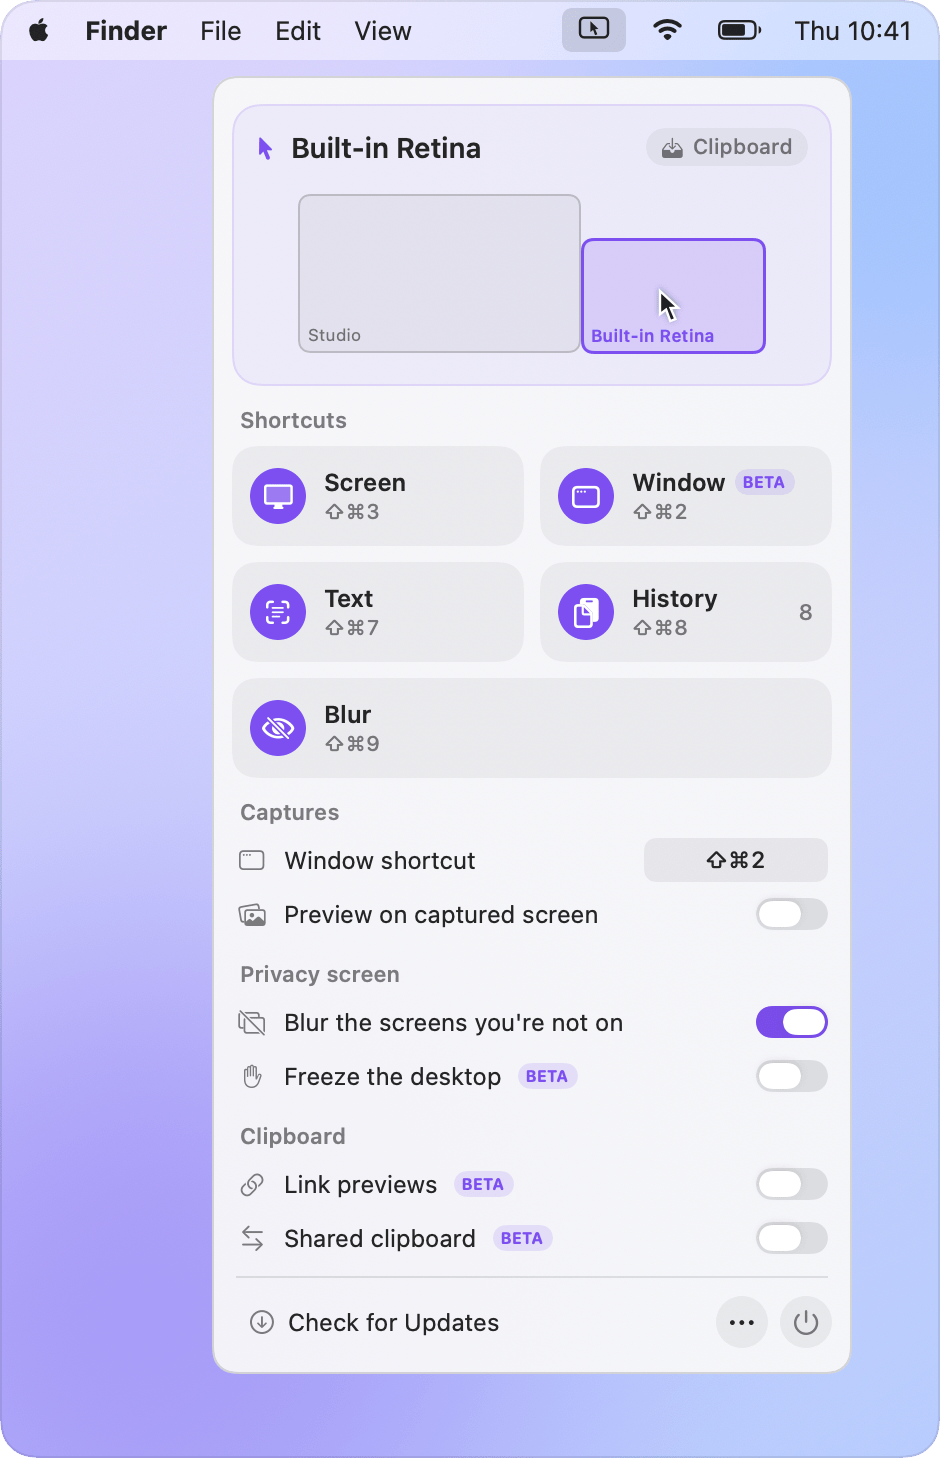
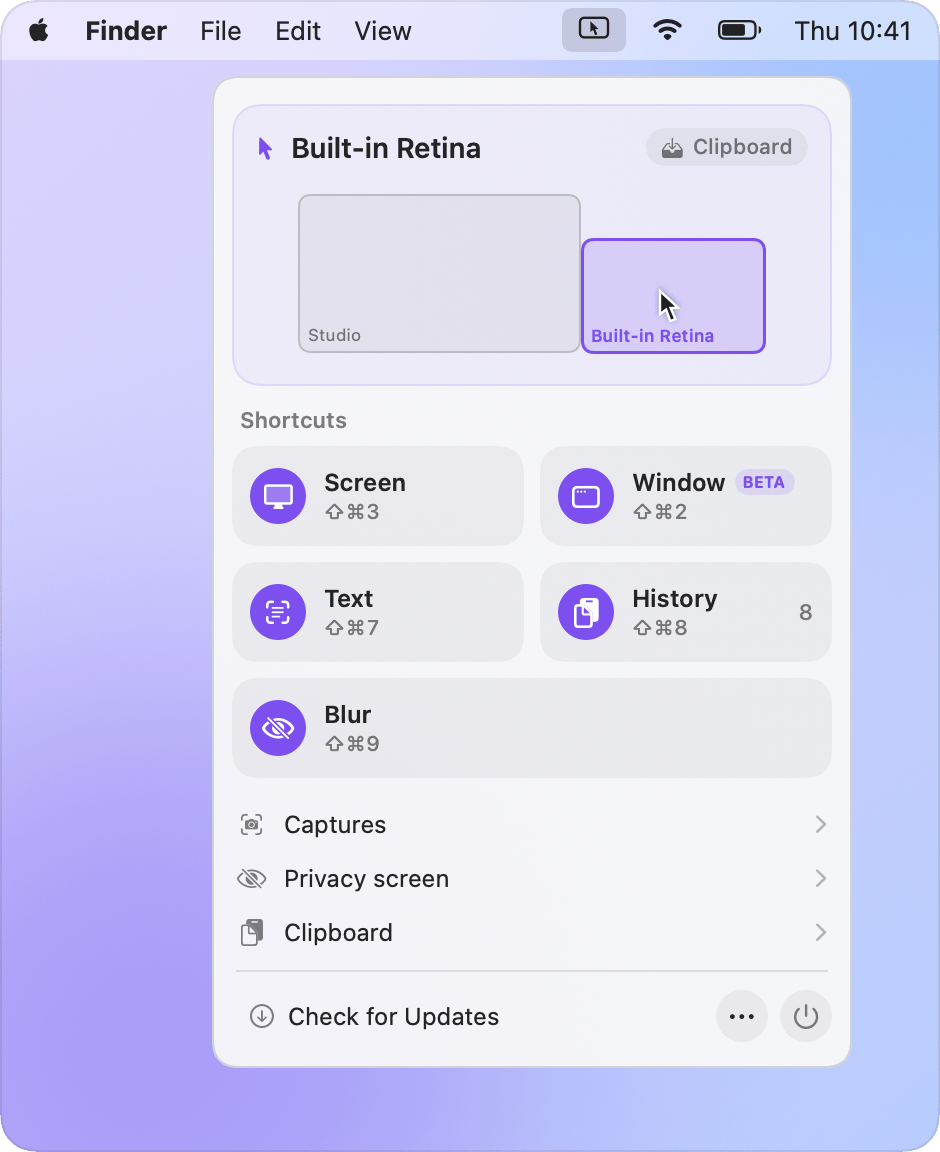
feat: one room of settings at a time, instead of one growing list
The panel grew with everything that was switched on: eleven rows and,
while two devices were being introduced, eight more that resized it
under the six-digit code the user was reading.

The settings now live in three rooms — Captures, Privacy screen,
Clipboard — reached from the panel and left by the way back every Mac
puts in the same corner. The panel that opens is the same height
whatever is on, and a setting finally has room for the sentence that
explains it, which until now had to fit in a tooltip nobody hovers.

The rooms are the groups rather than the tiles: a tile keeps its one
job, switching its feature, and no room opens empty.

diff --git a/Sources/ScreenHere/PanelOptions.swift b/Sources/ScreenHere/PanelOptions.swift
@@ -1,7 +1,26 @@
 import SwiftUI
 
-/// The settings of the features that are on, so the panel only grows with
-/// what is in use.
+/// A room of settings, named after what it changes. The panel shows one room
+/// at a time, so its height no longer grows with everything that is switched
+/// on — and a setting gets space for the sentence that explains it.
+enum PanelPage: String, CaseIterable, Identifiable {
+    case captures = "Captures"
+    case privacy = "Privacy screen"
+    case clipboard = "Clipboard"
+
+    var id: String { rawValue }
+
+    var icon: String {
+        switch self {
+        case .captures: "camera.viewfinder"
+        case .privacy: "eye.slash"
+        case .clipboard: "doc.on.clipboard"
+        }
+    }
+}
+
+/// The settings of the features that are on: the rooms to go to, or the one
+/// that is open.
 struct PanelOptions: View {
     @ObservedObject var model: PanelModel
     @ObservedObject var window: WindowShortcuts
@@ -10,55 +29,92 @@ struct PanelOptions: View {
     @ObservedObject var sync: SyncController
     @ObservedObject var blur: ScreenBlur = .shared
 
+    /// The room on show, or none for the list of rooms.
+    var page: PanelPage?
+    var open: (PanelPage) -> Void = { _ in }
+
     var body: some View {
         VStack(spacing: 1) {
-            if (clipboard.isEnabled || sync.isEnabled) && clipboard.needsPasteAccess {
-                PanelRow(icon: "exclamationmark.triangle", title: "Allow clipboard access…",
-                         action: clipboard.openPasteAccessSettings)
-                    .foregroundStyle(Theme.warning)
+            switch page {
+            case .none: doors
+            case .captures: captures
+            case .privacy: privacy
+            case .clipboard: clipboardSettings
             }
-
-            group("Captures", first: true)
-            if window.isEnabled {
-                PanelRow(icon: "macwindow", title: "Window shortcut") {
-                    ShortcutRecorder(window: window)
-                }
-            }
-            PanelRow(icon: "photo.on.rectangle.angled", title: "Preview on captured screen") {
-                toggle(isOn: model.showsOwnPreview, set: { model.setOwnPreview($0) })
-                    .help("Show the capture preview on the screen it came from, "
-                          + "instead of wherever macOS puts it")
-            }
-
-            if blur.isEnabled {
-                group("Privacy screen")
-                PanelRow(icon: "rectangle.on.rectangle.slash", title: "Blur the screens you're not on") {
-                    toggle(isOn: blur.blursOthers, set: blur.setBlursOthers)
-                        .help("On top of ⇧⌘9, frost every display the pointer is not on by itself. "
-                              + "A screen clears the moment your pointer arrives, and frosts again "
-                              + "a second after it leaves.")
-                }
-                PanelRow(icon: "hand.raised", title: "Freeze the desktop", beta: true) {
-                    toggle(isOn: blur.holdsDisplay, set: blur.setHoldsDisplay)
-                        .help("While ⇧⌘9 is down, hold every frosted display so macOS cannot "
-                              + "slide to another desktop — the frost can no longer blink off "
-                              + "mid-swipe. Taking a display over flashes it for an instant as "
-                              + "the curtain comes down.")
-                }
-            }
-
-            group("Clipboard")
-            if clipboard.isEnabled {
-                PanelRow(icon: "link", title: "Link previews", beta: true) {
-                    toggle(isOn: links.isEnabled, set: links.setEnabled)
-                        .help("Show the title and icon of copied links in the list. ScreenHere visits a link "
-                              + "when the list shows it, without cookies, and never one that looks private "
-                              + "or single-use. The site sees the visit, as it would if you opened the link.")
-                }
-            }
-            sharedClipboard
         }
         .onAppear { clipboard.refreshAccess() }
+    }
+
+    /// The way in to each room, and anything that cannot wait behind a door.
+    @ViewBuilder private var doors: some View {
+        if (clipboard.isEnabled || sync.isEnabled) && clipboard.needsPasteAccess {
+            PanelRow(icon: "exclamationmark.triangle", title: "Allow clipboard access…",
+                     action: clipboard.openPasteAccessSettings)
+                .foregroundStyle(Theme.warning)
+        }
+        ForEach(PanelPage.allCases) { page in
+            // A frosted screen is the only one whose room is empty when the
+            // feature is off.
+            if page != .privacy || blur.isEnabled {
+                PanelRow(icon: page.icon, title: page.rawValue, action: { open(page) }) {
+                    Image(systemName: "chevron.right")
+                        .font(.system(size: 10, weight: .semibold))
+                        .foregroundStyle(.tertiary)
+                }
+            }
+        }
+    }
+
+    @ViewBuilder private var captures: some View {
+        if window.isEnabled {
+            PanelRow(icon: "macwindow", title: "Window shortcut") {
+                ShortcutRecorder(window: window)
+            }
+        }
+        PanelRow(icon: "photo.on.rectangle.angled", title: "Preview on captured screen") {
+            toggle(isOn: model.showsOwnPreview, set: { model.setOwnPreview($0) })
+        }
+        note("The preview appears on the screen the capture came from, instead of "
+             + "wherever macOS puts it. Click it to find the file, drag it into another "
+             + "app, or flick it to the right to dismiss it.")
+    }
+
+    @ViewBuilder private var privacy: some View {
+        PanelRow(icon: "rectangle.on.rectangle.slash", title: "Blur the screens you're not on") {
+            toggle(isOn: blur.blursOthers, set: blur.setBlursOthers)
+        }
+        note("On top of ⇧⌘9, frost every display the pointer is not on by itself. A screen "
+             + "clears the moment your pointer arrives, and frosts again a second after it leaves.")
+        PanelRow(icon: "hand.raised", title: "Freeze the desktop", beta: true) {
+            toggle(isOn: blur.holdsDisplay, set: blur.setHoldsDisplay)
+        }
+        note("While ⇧⌘9 is down, hold every frosted display so macOS cannot slide to another "
+             + "desktop — the frost can no longer blink off mid-swipe. Taking a display over "
+             + "flashes it for an instant as the curtain comes down.")
+    }
+
+    @ViewBuilder private var clipboardSettings: some View {
+        if clipboard.isEnabled {
+            PanelRow(icon: "link", title: "Link previews", beta: true) {
+                toggle(isOn: links.isEnabled, set: links.setEnabled)
+            }
+            note("Show the title and icon of copied links in the list. ScreenHere visits a link "
+                 + "when the list shows it, without cookies, and never one that looks private or "
+                 + "single-use. The site sees the visit, as it would if you opened the link.")
+        }
+        sharedClipboard
+    }
+
+    /// What a setting does, in the room's own space — which is the point of
+    /// having rooms: this used to have to fit in a tooltip.
+    private func note(_ text: String) -> some View {
+        Text(text)
+            .font(.system(size: 10.5))
+            .foregroundStyle(.secondary)
+            .fixedSize(horizontal: false, vertical: true)
+            .frame(maxWidth: .infinity, alignment: .leading)
+            .padding(.horizontal, 8)
+            .padding(.bottom, 6)
     }
 
     /// The clipboard shared with one other device, and the few steps that
@@ -143,18 +199,6 @@ struct PanelOptions: View {
                 PanelRow(icon: "link", title: "Connect a device…", action: sync.beginPairing)
             }
         }
-    }
-
-    /// Names what the settings under it change. The first one needs no gap
-    /// above it: the tiles already left one.
-    private func group(_ title: String, first: Bool = false) -> some View {
-        Text(title)
-            .font(.system(size: 11, weight: .semibold))
-            .foregroundStyle(.secondary)
-            .frame(maxWidth: .infinity, alignment: .leading)
-            .padding(.leading, 8)
-            .padding(.top, first ? 0 : 9)
-            .padding(.bottom, 3)
     }
 
     private func toggle(isOn: Bool, set: @escaping (Bool) -> Void) -> some View {

diff --git a/Sources/ScreenHere/PanelView.swift b/Sources/ScreenHere/PanelView.swift
@@ -17,7 +17,36 @@ struct PanelView: View {
     var onOpenGitHub: () -> Void
     var onQuit: () -> Void
 
+    /// The room on show, or none for the panel as it opens.
+    @State private var page: PanelPage?
+    @Environment(\.accessibilityReduceMotion) private var reduceMotion
+
     var body: some View {
+        VStack(alignment: .leading, spacing: 0) {
+            if let page {
+                room(page)
+                    .transition(.move(edge: .trailing).combined(with: .opacity))
+            } else {
+                hall
+                    .transition(.move(edge: .leading).combined(with: .opacity))
+            }
+
+            Divider()
+                .padding(.horizontal, 12)
+                .padding(.top, 6)
+            footer
+        }
+        .frame(width: 320)
+        .clipped()
+        .animation(reduceMotion ? .easeOut(duration: 0.12) : .easeInOut(duration: 0.22), value: page)
+        .background(WindowReader { model.attach(window: $0) })
+        // Reopened from the menu bar, the panel starts where it started last
+        // time: at the front.
+        .onDisappear { page = nil }
+    }
+
+    /// The panel as it opens: what the app does, and the way in to the settings.
+    private var hall: some View {
         VStack(alignment: .leading, spacing: 0) {
             PanelHero(model: model)
                 .padding(10)
@@ -26,17 +55,35 @@ struct PanelView: View {
             PanelTiles(model: model, window: .shared, text: .shared, clipboard: .shared)
                 .padding(.horizontal, 10)
 
-            PanelOptions(model: model, window: .shared, clipboard: .shared, links: .shared, sync: .shared)
+            PanelOptions(model: model, window: .shared, clipboard: .shared, links: .shared,
+                         sync: .shared, open: { page = $0 })
                 .padding(.horizontal, 6)
                 .padding(.top, 10)
-
-            Divider()
-                .padding(.horizontal, 12)
-                .padding(.top, 6)
-            footer
         }
-        .frame(width: 320)
-        .background(WindowReader { model.attach(window: $0) })
+    }
+
+    /// One room of settings, with the way back where every Mac puts it.
+    private func room(_ page: PanelPage) -> some View {
+        VStack(alignment: .leading, spacing: 0) {
+            Button { self.page = nil } label: {
+                HStack(spacing: 3) {
+                    Image(systemName: "chevron.left")
+                        .font(.system(size: 11, weight: .semibold))
+                    Text(page.rawValue)
+                        .font(.system(size: 12, weight: .semibold))
+                    Spacer(minLength: 0)
+                }
+                .foregroundStyle(Theme.brand)
+                .padding(.horizontal, 12)
+                .frame(height: 34)
+                .contentShape(Rectangle())
+            }
+            .buttonStyle(.plain)
+
+            PanelOptions(model: model, window: .shared, clipboard: .shared, links: .shared,
+                         sync: .shared, page: page)
+                .padding(.horizontal, 6)
+        }
     }
 
     private var footer: some View {
